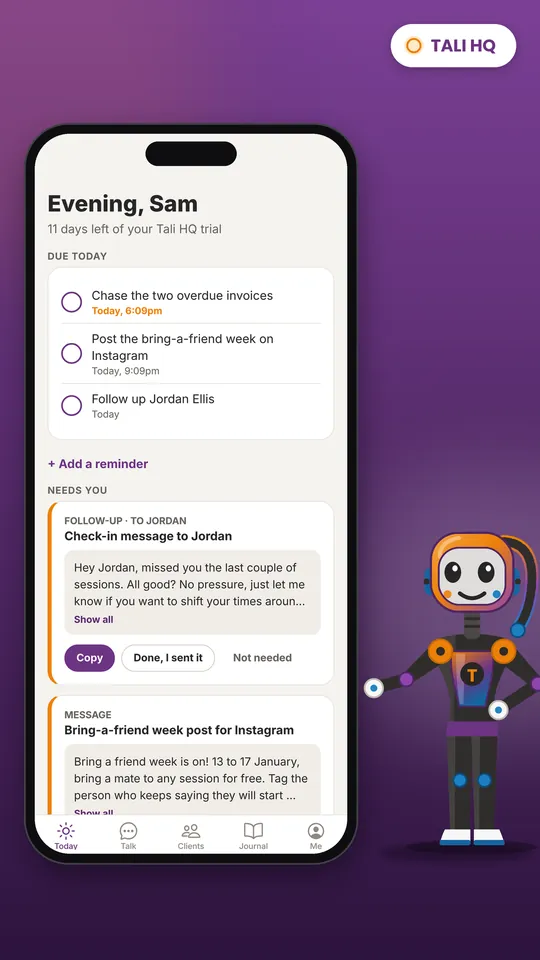
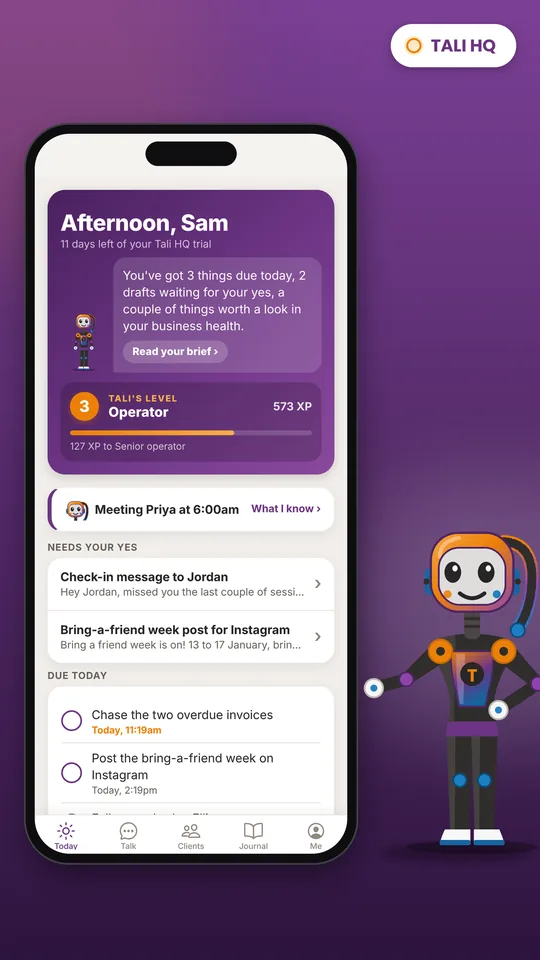
Tali HQ gallery: new Today with Tali's level, owner's rhythm screens, Sleep chips
Claude-Session: https://claude.ai/code/session_01NuFkq8yWnFZfSVKBmM4NYV

Changed region(s): [[0.0593, 0.1875, 0.6222, 0.875]]

diff --git a/tali-hq.html b/tali-hq.html
@@ -252,7 +252,7 @@ src="https://www.facebook.com/tr?id=3550080485153029&ev=PageView&noscript=1"
 
     <section class="thq-sec thq-screens" id="screens" style="scroll-margin-top: 90px;">
       <h2>Every screen in Tali HQ</h2>
-      <p>All 50 screens from the app as it stands today, from sign in to sleep. Tap any one to see it full size.</p>
+      <p>All 56 screens from the app as it stands today, from sign in to sleep. Tap any one to see it full size.</p>
       <h3 class="thq-screens__h">Getting started</h3>
       <div class="thq-shots">
         <a class="thq-shot" href="/img/tali-hq/screens/TaliHQ_01_sign_in.webp" target="_blank" rel="noopener"><img src="/img/tali-hq/screens/TaliHQ_01_sign_in.webp" alt="Tali HQ screen: Sign in" width="540" height="960" loading="lazy" decoding="async"></a>
@@ -262,14 +262,24 @@ src="https://www.facebook.com/tr?id=3550080485153029&ev=PageView&noscript=1"
         <a class="thq-shot" href="/img/tali-hq/screens/TaliHQ_14_reset_password.webp" target="_blank" rel="noopener"><img src="/img/tali-hq/screens/TaliHQ_14_reset_password.webp" alt="Tali HQ screen: Reset password" width="540" height="960" loading="lazy" decoding="async"></a>
       </div>
       <h3 class="thq-screens__h">Today</h3>
+      <p class="thq-screens__cap">Tali reads your day for you, with her level growing as she learns your business. Tap anything to open it.</p>
       <div class="thq-shots">
         <a class="thq-shot" href="/img/tali-hq/screens/TaliHQ_05_today.webp" target="_blank" rel="noopener"><img src="/img/tali-hq/screens/TaliHQ_05_today.webp" alt="Tali HQ screen: Today" width="540" height="960" loading="lazy" decoding="async"></a>
         <a class="thq-shot" href="/img/tali-hq/screens/TaliHQ_05b_today_brief.webp" target="_blank" rel="noopener"><img src="/img/tali-hq/screens/TaliHQ_05b_today_brief.webp" alt="Tali HQ screen: Today, morning brief" width="540" height="960" loading="lazy" decoding="async"></a>
-        <a class="thq-shot" href="/img/tali-hq/screens/TaliHQ_06_today_first_day.webp" target="_blank" rel="noopener"><img src="/img/tali-hq/screens/TaliHQ_06_today_first_day.webp" alt="Tali HQ screen: Today, first day" width="540" height="960" loading="lazy" decoding="async"></a>
-        <a class="thq-shot" href="/img/tali-hq/screens/TaliHQ_19_today_pro.webp" target="_blank" rel="noopener"><img src="/img/tali-hq/screens/TaliHQ_19_today_pro.webp" alt="Tali HQ screen: Today on Pro" width="540" height="960" loading="lazy" decoding="async"></a>
-        <a class="thq-shot" href="/img/tali-hq/screens/TaliHQ_19b_today_your_day.webp" target="_blank" rel="noopener"><img src="/img/tali-hq/screens/TaliHQ_19b_today_your_day.webp" alt="Tali HQ screen: Today, your day" width="540" height="960" loading="lazy" decoding="async"></a>
-        <a class="thq-shot" href="/img/tali-hq/screens/TaliHQ_40_today_rework.webp" target="_blank" rel="noopener"><img src="/img/tali-hq/screens/TaliHQ_40_today_rework.webp" alt="Tali HQ screen: Today, rework draft" width="540" height="960" loading="lazy" decoding="async"></a>
-        <a class="thq-shot" href="/img/tali-hq/screens/TaliHQ_41_today_reworked.webp" target="_blank" rel="noopener"><img src="/img/tali-hq/screens/TaliHQ_41_today_reworked.webp" alt="Tali HQ screen: Today, reworked" width="540" height="960" loading="lazy" decoding="async"></a>
+        <a class="thq-shot" href="/img/tali-hq/screens/TaliHQ_41_today_meeting.webp" target="_blank" rel="noopener"><img src="/img/tali-hq/screens/TaliHQ_41_today_meeting.webp" alt="Tali HQ screen: Today, what Tali knows before a meeting" width="540" height="960" loading="lazy" decoding="async"></a>
+        <a class="thq-shot" href="/img/tali-hq/screens/TaliHQ_40_today_draft.webp" target="_blank" rel="noopener"><img src="/img/tali-hq/screens/TaliHQ_40_today_draft.webp" alt="Tali HQ screen: Today, a draft waiting for your yes" width="540" height="960" loading="lazy" decoding="async"></a>
+        <a class="thq-shot" href="/img/tali-hq/screens/TaliHQ_19_today_glance.webp" target="_blank" rel="noopener"><img src="/img/tali-hq/screens/TaliHQ_19_today_glance.webp" alt="Tali HQ screen: Today, at a glance" width="540" height="960" loading="lazy" decoding="async"></a>
+        <a class="thq-shot" href="/img/tali-hq/screens/TaliHQ_19b_today_more.webp" target="_blank" rel="noopener"><img src="/img/tali-hq/screens/TaliHQ_19b_today_more.webp" alt="Tali HQ screen: Today, more from Tali" width="540" height="960" loading="lazy" decoding="async"></a>
+        <a class="thq-shot" href="/img/tali-hq/screens/TaliHQ_06_today_first_day.webp" target="_blank" rel="noopener"><img src="/img/tali-hq/screens/TaliHQ_06_today_first_day.webp" alt="Tali HQ screen: Today, a quieter day" width="540" height="960" loading="lazy" decoding="async"></a>
+      </div>
+      <h3 class="thq-screens__h">Your week, money and decisions</h3>
+      <div class="thq-shots">
+        <a class="thq-shot" href="/img/tali-hq/screens/TaliHQ_56_shutdown.webp" target="_blank" rel="noopener"><img src="/img/tali-hq/screens/TaliHQ_56_shutdown.webp" alt="Tali HQ screen: End of day shutdown" width="540" height="960" loading="lazy" decoding="async"></a>
+        <a class="thq-shot" href="/img/tali-hq/screens/TaliHQ_55_weekly_review.webp" target="_blank" rel="noopener"><img src="/img/tali-hq/screens/TaliHQ_55_weekly_review.webp" alt="Tali HQ screen: Weekly review" width="540" height="960" loading="lazy" decoding="async"></a>
+        <a class="thq-shot" href="/img/tali-hq/screens/TaliHQ_53_goals.webp" target="_blank" rel="noopener"><img src="/img/tali-hq/screens/TaliHQ_53_goals.webp" alt="Tali HQ screen: Goals" width="540" height="960" loading="lazy" decoding="async"></a>
+        <a class="thq-shot" href="/img/tali-hq/screens/TaliHQ_52_money.webp" target="_blank" rel="noopener"><img src="/img/tali-hq/screens/TaliHQ_52_money.webp" alt="Tali HQ screen: Money picture" width="540" height="960" loading="lazy" decoding="async"></a>
+        <a class="thq-shot" href="/img/tali-hq/screens/TaliHQ_54_decisions.webp" target="_blank" rel="noopener"><img src="/img/tali-hq/screens/TaliHQ_54_decisions.webp" alt="Tali HQ screen: Decisions" width="540" height="960" loading="lazy" decoding="async"></a>
+        <a class="thq-shot" href="/img/tali-hq/screens/TaliHQ_57_person.webp" target="_blank" rel="noopener"><img src="/img/tali-hq/screens/TaliHQ_57_person.webp" alt="Tali HQ screen: Everything Tali knows about a client" width="540" height="960" loading="lazy" decoding="async"></a>
       </div>
       <h3 class="thq-screens__h">Talk</h3>
       <div class="thq-shots">
